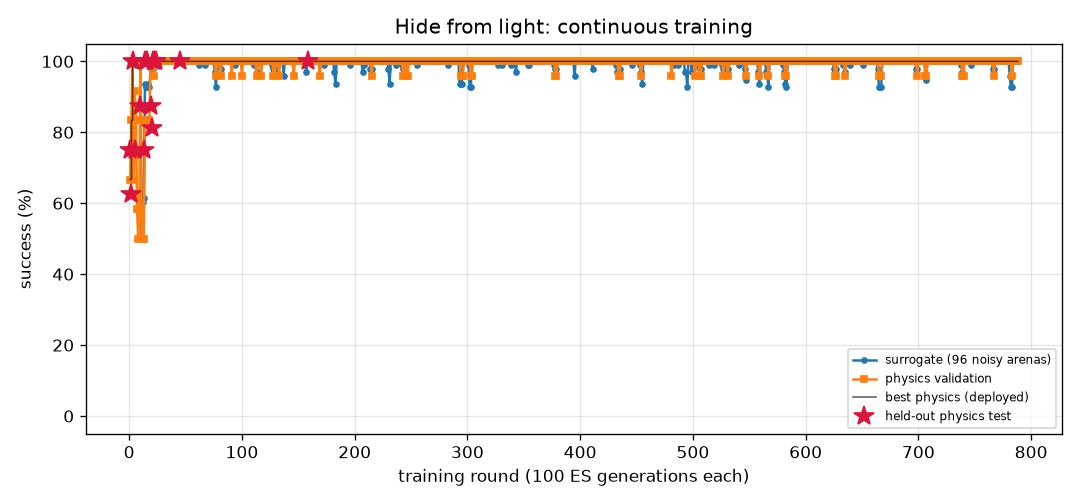
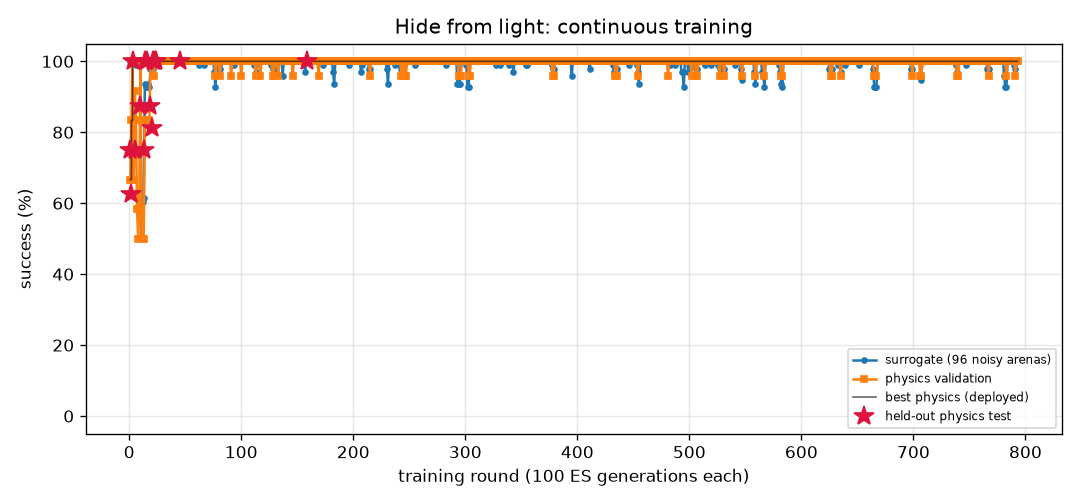
FlyLab: continuous training progress
- walk_forward: optimal, physics val 100% of 24, round 485
- turn: optimal, physics val 100% of 24, round 1270
- goto: optimal, physics val 100% of 24, round 376
- odor_seek: optimal, physics val 100% of 24, round 302
- odor_avoid: optimal, physics val 100% of 24, round 1079
- light_seek: optimal, physics val 100% of 24, round 578
- light_avoid: optimal, physics val 100% of 24, round 793

diff --git a/projects/09_flylab/training/odor_avoid/REPORT.md b/projects/09_flylab/training/odor_avoid/REPORT.md
@@ -1,14 +1,14 @@
 # Escape a bad smell (`odor_avoid`) — training report
 
-*Auto-generated by `train_brains.py`, last updated 2026-11-21T23:58:12.*
+*Auto-generated by `train_brains.py`, last updated 2026-11-22T14:04:10.*
 
 ![curve](curve.png)
 
 | | |
 |---|---|
-| rounds | 1073 |
-| ES generations | 107300 |
-| physics runs | 23058 |
+| rounds | 1079 |
+| ES generations | 107900 |
+| physics runs | 23202 |
 | status | **optimal** |
 | best brain | round 373: physics validation **100%** on 24 arenas, surrogate 97% |
 | held-out physics test | **97%** on 32 unseen arenas (95% CI 84%-99%) (errors: [62.0, 57.4, 62.6, 61.9, 59.0, 61.6, 56.5, 60.7, 31.7, 60.9, 63.1, 57.1, 61.1, 62.1, 61.5, 60.2, 62.2, 55.2, 62.1, 54.2, 61.3, 62.0, 58.0, 61.9, 59.8, 56.5, 56.3, 56.4, 56.3, 57.7, 61.9, 32.4]) |
@@ -17,12 +17,6 @@ Physics error per arena: mm gained away from source (> 6 without first approachi
 
 | round | level | gens | sigma | surrogate | physics val | val errors | test | note |
 |---:|---:|---:|---:|---:|---:|---|---:|---|
-| 1034 | 3 | 103400 | 0.026 | 96% | 100% | [63.3, 57.7, 57.7, 58.3, 61.0, 61.4, 62.0, 54.8, 59.7, 58.0, 61.7, 60.7, 51.8, 55.5, 44.4, 61.5, 61.5, 60.9, 54.6, 59.5, 61.3, 59.5, 57.9, 59.2] |  |  |
-| 1035 | 3 | 103500 | 0.026 | 96% | 96% | [63.4, 57.4, 56.3, 55.6, 61.7, 60.3, 60.5, 17.9, 61.0, 54.7, 61.2, 61.5, 52.3, 57.3, 36.0, 60.3, 62.4, 60.4, 55.0, 59.5, 61.8, 57.6, 59.2, 26.8] |  |  |
-| 1036 | 3 | 103600 | 0.026 | 92% | 100% | [62.6, 57.4, 56.3, 56.1, 62.6, 62.2, 60.9, 60.8, 61.0, 61.7, 61.9, 62.3, 55.3, 56.1, 51.3, 62.9, 62.3, 62.6, 55.2, 57.3, 62.8, 61.4, 55.3, 60.2] |  |  |
-| 1037 | 3 | 103700 | 0.029 | 94% | 96% | [62.7, 59.7, 55.6, 60.9, 60.7, 61.1, 62.0, 24.1, 62.0, 42.1, 57.5, 62.2, 50.8, 55.4, 41.3, 61.1, 62.4, 60.3, 51.3, 57.2, 62.0, 58.1, 61.0, 61.5] |  | restart from best |
-| 1038 | 3 | 103800 | 0.026 | 97% | 100% | [62.2, 61.1, 56.0, 61.3, 47.4, 56.1, 62.4, 60.3, 61.9, 53.7, 52.4, 62.1, 49.5, 55.5, 39.9, 61.4, 61.8, 56.8, 50.7, 59.1, 62.0, 56.3, 61.3, 62.3] |  |  |
-| 1039 | 3 | 103900 | 0.026 | 95% | 100% | [62.2, 61.0, 56.5, 57.4, 57.4, 60.1, 62.3, 62.1, 62.1, 59.0, 41.8, 61.3, 42.6, 54.4, 36.2, 61.8, 61.9, 59.8, 49.5, 60.3, 61.6, 61.5, 60.6, 62.4] |  |  |
 | 1040 | 3 | 104000 | 0.027 | 97% | 96% | [60.8, 53.9, 56.8, 60.3, 62.4, 60.4, 61.6, 47.8, 61.9, 54.4, 59.9, 62.4, 52.9, 56.2, 46.5, 61.6, 62.1, 61.4, 50.2, 56.0, 61.6, 62.5, 60.6, 61.3] |  |  |
 | 1041 | 3 | 104100 | 0.026 | 95% | 96% | [61.4, 55.3, 56.8, 54.8, 62.6, 61.8, 61.1, 51.9, 61.7, 53.0, 61.8, 61.9, 49.2, 56.8, 51.6, 62.4, 61.9, 61.6, 53.3, 53.4, 62.0, 61.9, 60.3, 62.1] |  | restart from best |
 | 1042 | 3 | 104200 | 0.026 | 98% | 100% | [62.5, 60.9, 55.8, 61.2, 60.7, 59.9, 60.8, 41.8, 61.1, 48.5, 46.2, 61.0, 52.0, 55.8, 16.2, 60.2, 61.2, 60.0, 54.5, 60.7, 61.1, 38.5, 61.2, 61.1] |  |  |
@@ -57,3 +51,9 @@ Physics error per arena: mm gained away from source (> 6 without first approachi
 | 1071 | 3 | 107100 | 0.028 | 96% | 96% | [62.2, 57.5, 56.5, 57.4, 62.2, 61.9, 62.4, 51.0, 62.6, 41.7, 52.8, 62.1, 50.8, 55.8, 30.8, 61.6, 61.8, 51.9, 54.3, 57.2, 62.4, 61.1, 61.3, 58.6] |  |  |
 | 1072 | 3 | 107200 | 0.026 | 95% | 100% | [61.3, 60.2, 56.4, 60.9, 61.3, 60.8, 61.7, 61.9, 61.9, 59.5, 42.0, 61.2, 26.8, 55.1, 33.9, 61.9, 61.4, 60.7, 50.0, 59.8, 61.5, 61.6, 60.0, 62.5] |  |  |
 | 1073 | 3 | 107300 | 0.027 | 96% | 96% | [62.1, 60.7, 56.0, 59.8, 62.5, 61.8, 62.3, 44.4, 62.1, 54.2, 23.1, 61.7, 50.6, 55.9, 35.5, 57.4, 62.1, 50.4, 54.1, 57.2, 61.8, 61.8, 61.0, 57.4] |  | restart from best |
+| 1074 | 3 | 107400 | 0.026 | 96% | 96% | [62.1, 60.0, 55.8, 60.8, 60.7, 61.3, 61.8, 53.9, 61.9, 47.0, 57.2, 62.0, 51.5, 53.9, 0.3, 61.3, 62.2, 61.7, 55.0, 57.0, 61.7, 47.7, 59.8, 60.7] |  |  |
+| 1075 | 3 | 107500 | 0.026 | 98% | 100% | [62.4, 57.0, 58.1, 59.1, 61.5, 62.2, 61.0, 51.7, 61.0, 59.4, 61.5, 60.5, 54.1, 57.7, 40.7, 62.1, 61.0, 62.0, 54.9, 56.7, 60.3, 60.5, 58.8, 56.6] |  |  |
+| 1076 | 3 | 107600 | 0.025 | 97% | 96% | [63.1, 57.7, 58.1, 61.2, 61.9, 62.3, 61.9, 54.6, 60.6, 60.1, 60.9, 60.8, 53.1, 57.1, 36.7, 62.2, 61.4, 62.2, 55.0, 56.2, 61.4, 62.5, 57.9, 62.9] |  |  |
+| 1077 | 3 | 107700 | 0.026 | 97% | 100% | [63.2, 57.1, 58.2, 57.4, 62.0, 62.8, 61.0, 42.7, 61.7, 49.3, 61.2, 60.9, 51.5, 58.3, 36.3, 62.1, 61.9, 62.4, 54.6, 57.4, 61.3, 60.2, 59.5, 59.3] |  | restart from best |
+| 1078 | 3 | 107800 | 0.026 | 93% | 100% | [62.5, 58.4, 55.6, 57.9, 62.0, 61.6, 61.4, 56.8, 60.1, 61.5, 62.3, 61.9, 55.1, 56.4, 51.1, 61.7, 61.8, 61.4, 55.6, 55.9, 62.1, 61.0, 57.6, 30.8] |  |  |
+| 1079 | 3 | 107900 | 0.028 | 96% | 96% | [63.1, 56.3, 56.1, 61.4, 61.4, 61.8, 61.3, 62.5, 61.3, 61.3, 33.8, 61.8, 51.5, 54.7, 35.4, 61.3, 61.6, 56.5, 51.1, 57.8, 61.8, 62.6, 61.1, 62.8] |  |  |

diff --git a/projects/09_flylab/training/light_avoid/REPORT.md b/projects/09_flylab/training/light_avoid/REPORT.md
@@ -1,14 +1,14 @@
 # Hide from light (`light_avoid`) — training report
 
-*Auto-generated by `train_brains.py`, last updated 2026-11-22T00:50:55.*
+*Auto-generated by `train_brains.py`, last updated 2026-11-22T14:01:51.*
 
 ![curve](curve.png)
 
 | | |
 |---|---|
-| rounds | 788 |
-| ES generations | 78800 |
-| physics runs | 19184 |
+| rounds | 793 |
+| ES generations | 79300 |
+| physics runs | 19304 |
 | status | **optimal** |
 | best brain | round 159: physics validation **100%** on 24 arenas, surrogate 100% |
 | held-out physics test | **100%** on 32 unseen arenas (95% CI 89%-100%) (errors: [14.4, 56.1, 58.0, 57.9, 57.5, 14.0, 14.4, 56.6, 56.8, 13.3, 14.1, 56.6, 57.6, 13.1, 57.3, 55.9, 57.2, 55.0, 55.2, 53.9, 55.2, 12.4, 53.8, 53.7, 14.1, 13.7, 55.0, 57.8, 56.2, 13.1, 52.8, 56.5]) |
@@ -17,11 +17,6 @@ Physics error per arena: mm gained away from source (> 6 without first approachi
 
 | round | level | gens | sigma | surrogate | physics val | val errors | test | note |
 |---:|---:|---:|---:|---:|---:|---|---:|---|
-| 749 | 3 | 74900 | 0.024 | 100% | 100% | [40.8, 38.2, 38.1, 38.8, 40.6, 40.1, 36.4, 14.5, 35.4, 13.6, 37.9, 39.5, 14.4, 39.3, 38.9, 38.9, 14.2, 41.7, 40.4, 14.4, 39.8, 38.2, 36.3, 41.2] |  |  |
-| 750 | 3 | 75000 | 0.024 | 100% | 100% | [54.3, 59.3, 58.8, 55.5, 59.5, 55.9, 57.7, 14.5, 55.6, 13.3, 58.4, 59.4, 14.4, 58.2, 59.1, 54.7, 14.2, 59.9, 59.6, 14.4, 56.5, 58.4, 57.1, 58.9] |  |  |
-| 751 | 3 | 75100 | 0.024 | 100% | 100% | [58.0, 61.7, 61.5, 58.6, 60.0, 58.9, 60.7, 14.5, 10.5, 13.3, 59.6, 59.7, 14.4, 60.6, 61.7, 57.4, 14.2, 60.7, 61.5, 14.4, 59.2, 59.6, 60.5, 58.9] |  | restart from best |
-| 752 | 3 | 75200 | 0.024 | 100% | 100% | [47.8, 51.6, 51.7, 47.9, 48.1, 48.4, 51.4, 14.5, 41.0, 13.4, 47.0, 47.7, 14.4, 47.1, 51.8, 42.0, 14.2, 48.9, 51.4, 14.4, 41.5, 46.6, 51.1, 47.0] |  |  |
-| 753 | 3 | 75300 | 0.024 | 100% | 100% | [34.8, 38.8, 39.2, 34.3, 33.6, 35.1, 38.7, 14.5, 32.8, 13.4, 38.0, 35.7, 14.4, 35.8, 38.7, 35.1, 14.2, 36.3, 36.9, 14.4, 34.8, 37.3, 38.6, 34.6] |  |  |
 | 754 | 3 | 75400 | 0.024 | 100% | 100% | [49.9, 49.9, 50.4, 50.3, 45.2, 49.6, 51.0, 14.5, 43.3, 13.2, 46.2, 44.6, 14.4, 44.9, 50.2, 49.7, 14.2, 45.9, 48.9, 14.4, 50.4, 48.1, 50.4, 43.3] |  |  |
 | 755 | 3 | 75500 | 0.024 | 100% | 100% | [49.8, 49.3, 49.9, 50.1, 44.9, 49.2, 50.5, 14.5, 43.6, 13.5, 44.7, 44.2, 14.4, 43.9, 50.3, 49.7, 14.2, 45.9, 48.8, 14.4, 48.6, 46.6, 50.6, 43.1] |  | restart from best |
 | 756 | 3 | 75600 | 0.024 | 100% | 100% | [42.2, 42.5, 42.4, 41.8, 45.0, 43.2, 40.5, 14.5, 33.8, 13.6, 44.4, 45.0, 14.4, 44.8, 42.2, 41.6, 14.2, 45.8, 43.7, 14.4, 44.0, 45.4, 40.7, 44.8] |  |  |
@@ -57,3 +52,8 @@ Physics error per arena: mm gained away from source (> 6 without first approachi
 | 786 | 3 | 78600 | 0.024 | 100% | 100% | [51.2, 56.2, 55.8, 52.4, 57.1, 52.4, 53.9, 14.5, 51.9, 13.2, 54.5, 57.0, 14.3, 54.9, 56.0, 51.6, 14.2, 57.1, 56.7, 14.4, 54.6, 54.7, 53.9, 56.6] |  |  |
 | 787 | 3 | 78700 | 0.024 | 100% | 100% | [40.6, 40.2, 40.7, 40.5, 37.3, 38.9, 40.7, 14.5, 12.9, 13.4, 39.3, 36.7, 14.4, 40.2, 42.1, 40.2, 14.2, 37.2, 40.9, 14.4, 39.4, 39.2, 41.6, 35.2] |  | restart from best |
 | 788 | 3 | 78800 | 0.024 | 100% | 100% | [48.0, 49.5, 49.7, 48.2, 45.0, 47.7, 49.8, 14.5, 40.2, 13.4, 48.4, 44.6, 14.4, 46.7, 49.7, 48.4, 14.2, 46.2, 49.1, 14.4, 48.4, 48.2, 49.0, 43.8] |  |  |
+| 789 | 3 | 78900 | 0.024 | 100% | 100% | [41.5, 39.4, 39.7, 40.6, 42.8, 40.0, 37.1, 14.5, 40.6, 13.3, 41.2, 42.0, 14.3, 41.6, 40.0, 40.7, 14.2, 42.1, 40.7, 14.4, 39.9, 42.4, 37.9, 42.7] |  |  |
+| 790 | 3 | 79000 | 0.024 | 99% | 100% | [36.0, 34.2, 33.7, 35.9, 35.5, 34.3, 31.9, 14.5, 12.9, 13.4, 34.9, 35.7, 14.4, 34.7, 34.6, 35.5, 14.2, 36.0, 34.9, 14.4, 36.4, 33.8, 32.3, 35.1] |  |  |
+| 791 | 3 | 79100 | 0.025 | 98% | 96% | [55.8, 58.7, 58.6, 56.3, 57.1, 56.1, 57.8, 14.5, 13.0, 13.4, 10.1, 56.8, 14.4, 24.8, 58.7, 55.6, 14.2, 58.1, 58.7, 14.4, 55.1, 11.3, 57.8, 56.0] |  | restart from best |
+| 792 | 3 | 79200 | 0.024 | 100% | 100% | [56.6, 61.3, 61.1, 57.4, 60.8, 58.4, 59.8, 14.5, 50.8, 13.4, 60.1, 60.6, 14.4, 58.2, 61.2, 56.5, 14.2, 61.3, 61.6, 14.4, 57.9, 60.2, 59.6, 60.0] |  |  |
+| 793 | 3 | 79300 | 0.024 | 100% | 100% | [41.7, 42.5, 41.9, 40.8, 38.7, 41.9, 43.0, 14.5, 12.7, 13.4, 36.8, 37.3, 14.4, 41.1, 42.7, 42.0, 14.2, 39.3, 42.4, 14.4, 41.2, 38.6, 41.9, 36.7] |  |  |

diff --git a/projects/09_flylab/training/turn/REPORT.md b/projects/09_flylab/training/turn/REPORT.md
@@ -1,14 +1,14 @@
 # Turn in place (`turn`) — training report
 
-*Auto-generated by `train_brains.py`, last updated 2026-11-22T13:02:45.*
+*Auto-generated by `train_brains.py`, last updated 2026-11-22T13:09:14.*
 
 ![curve](curve.png)
 
 | | |
 |---|---|
-| rounds | 1269 |
-| ES generations | 126900 |
-| physics runs | 30702 |
+| rounds | 1270 |
+| ES generations | 127000 |
+| physics runs | 30726 |
 | status | **optimal** |
 | best brain | round 80: physics validation **100%** on 24 arenas, surrogate 100% |
 | held-out physics test | **97%** on 32 unseen arenas (95% CI 84%-99%) (errors: [1.6, 3.3, 6.3, 3.7, 1.1, 0.4, 2.4, 2.9, 0.1, 2.6, 0.5, 2.7, 1.5, 3.1, 4.5, 0.2, 0.5, 1.1, 2.0, 4.4, 2.8, 3.2, 0.3, 2.2, 0.5, 3.0, 0.3, 5.4, 0.4, 1.0, 4.7, 10.7]) |
@@ -17,7 +17,6 @@ Physics error per arena: deg from target heading (< 20 = success).
 
 | round | level | gens | sigma | surrogate | physics val | val errors | test | note |
 |---:|---:|---:|---:|---:|---:|---|---:|---|
-| 1230 | 3 | 123000 | 0.025 | 99% | 83% | [8.8, 6.0, 8.7, 3.7, 3.8, 3.7, 4.4, 2.2, 4.9, 2.7, 4.6, 0.6, 3.1, 2.9, 3.9, 0.2, 0.8, 1.8, 0.3, 0.1, 4.6, 0.1, 4.3, 4.7] |  |  |
 | 1231 | 3 | 123100 | 0.025 | 99% | 96% | [3.9, 0.1, 7.1, 1.5, 1.0, 4.9, 5.9, 1.7, 5.3, 0.8, 4.9, 0.8, 2.1, 3.3, 4.2, 2.5, 1.1, 3.5, 4.3, 4.3, 7.9, 2.0, 6.4, 7.0] |  |  |
 | 1232 | 3 | 123200 | 0.025 | 99% | 88% | [5.7, 17.7, 12.0, 3.1, 20.5, 85.7, 9.3, 11.5, 8.8, 4.5, 4.3, 7.7, 5.4, 3.2, 7.7, 17.8, 8.0, 17.8, 17.9, 7.3, 1.6, 6.2, 9.0, 10.0] |  | restart from best |
 | 1233 | 3 | 123300 | 0.024 | 99% | 75% | [5.5, 2.3, 5.2, 0.1, 11.9, 1.5, 4.9, 1.4, 6.5, 14.6, 5.5, 1.8, 3.2, 2.1, 5.6, 0.7, 0.6, 2.6, 0.8, 0.3, 6.8, 0.6, 2.7, 6.8] |  |  |
@@ -57,3 +56,4 @@ Physics error per arena: deg from target heading (< 20 = success).
 | 1267 | 3 | 126700 | 0.025 | 99% | 88% | [7.4, 10.6, 8.0, 4.1, 1.1, 6.5, 4.3, 2.1, 1.7, 1.3, 2.7, 2.3, 4.4, 4.3, 2.8, 0.6, 2.5, 0.5, 1.3, 1.8, 7.8, 0.8, 2.6, 4.5] |  |  |
 | 1268 | 3 | 126800 | 0.025 | 98% | 58% | [8.8, 1.3, 5.0, 0.5, 2.5, 4.1, 6.5, 1.2, 7.6, 0.5, 6.2, 1.2, 0.5, 1.5, 5.9, 2.6, 0.5, 2.3, 2.0, 2.2, 4.0, 1.1, 5.3, 4.2] |  | restart from best |
 | 1269 | 3 | 126900 | 0.024 | 99% | 67% | [0.1, 4.2, 2.1, 1.0, 1.6, 3.2, 6.9, 7.8, 4.6, 0.4, 4.3, 1.3, 0.3, 1.1, 4.8, 2.1, 1.4, 3.0, 2.6, 0.8, 6.5, 2.5, 5.8, 4.9] |  |  |
+| 1270 | 3 | 127000 | 0.025 | 99% | 92% | [0.8, 3.6, 2.2, 0.8, 1.6, 2.8, 4.9, 7.5, 6.3, 0.3, 4.1, 1.4, 2.7, 0.9, 3.9, 0.8, 1.1, 1.5, 0.5, 0.7, 5.3, 1.3, 6.9, 2.1] |  |  |

diff --git a/projects/09_flylab/training/TRAINING.md b/projects/09_flylab/training/TRAINING.md
@@ -1,15 +1,15 @@
 # FlyLab brains — continuous training log
 
-*Auto-generated by `train_brains.py`, last updated 2026-11-22T13:02:57.*
+*Auto-generated by `train_brains.py`, last updated 2026-11-22T14:04:10.*
 
 Every skill has its own brain and its own training process: surrogate ES rounds, physics validation in MuJoCo, keep-the-best selection, and a held-out physics test that is never used for selection. See each skill's report for its full round-by-round history. Mastery is progressive: passing a level (100% physics validation, >=95% surrogate) doubles the validation and test arena sets; a brain is **optimal** once it holds up at level 3 (>=95% of 24 validation arenas) AND scores >=90% on the 32 held-out test arenas. Test columns show 95% Wilson confidence intervals.
 
 | skill | rounds | ES generations | physics runs | surrogate | physics val | **physics test** | status |
 |---|---:|---:|---:|---:|---:|---:|---|
 | [Walk forward](walk_forward/REPORT.md) | 485 | 48500 | 11718 | 100% | 100% of 24 | 100% of 32 (CI 89-100%) | **optimal** |
-| [Turn in place](turn/REPORT.md) | 1269 | 126900 | 30702 | 100% | 100% of 24 | 97% of 32 (CI 84-99%) | **optimal** |
+| [Turn in place](turn/REPORT.md) | 1270 | 127000 | 30726 | 100% | 100% of 24 | 97% of 32 (CI 84-99%) | **optimal** |
 | [Go to a location](goto/REPORT.md) | 376 | 37600 | 8974 | 100% | 100% of 24 | 100% of 32 (CI 89-100%) | **optimal** |
 | [Find food by smell](odor_seek/REPORT.md) | 302 | 30200 | 6742 | 100% | 100% of 24 | 100% of 32 (CI 89-100%) | **optimal** |
-| [Escape a bad smell](odor_avoid/REPORT.md) | 1073 | 107300 | 23058 | 97% | 100% of 24 | 97% of 32 (CI 84-99%) | **optimal** |
+| [Escape a bad smell](odor_avoid/REPORT.md) | 1079 | 107900 | 23202 | 97% | 100% of 24 | 97% of 32 (CI 84-99%) | **optimal** |
 | [Walk toward light](light_seek/REPORT.md) | 578 | 57800 | 10752 | 100% | 100% of 24 | 100% of 32 (CI 89-100%) | **optimal** |
-| [Hide from light](light_avoid/REPORT.md) | 788 | 78800 | 19184 | 100% | 100% of 24 | 100% of 32 (CI 89-100%) | **optimal** |
+| [Hide from light](light_avoid/REPORT.md) | 793 | 79300 | 19304 | 100% | 100% of 24 | 100% of 32 (CI 89-100%) | **optimal** |
